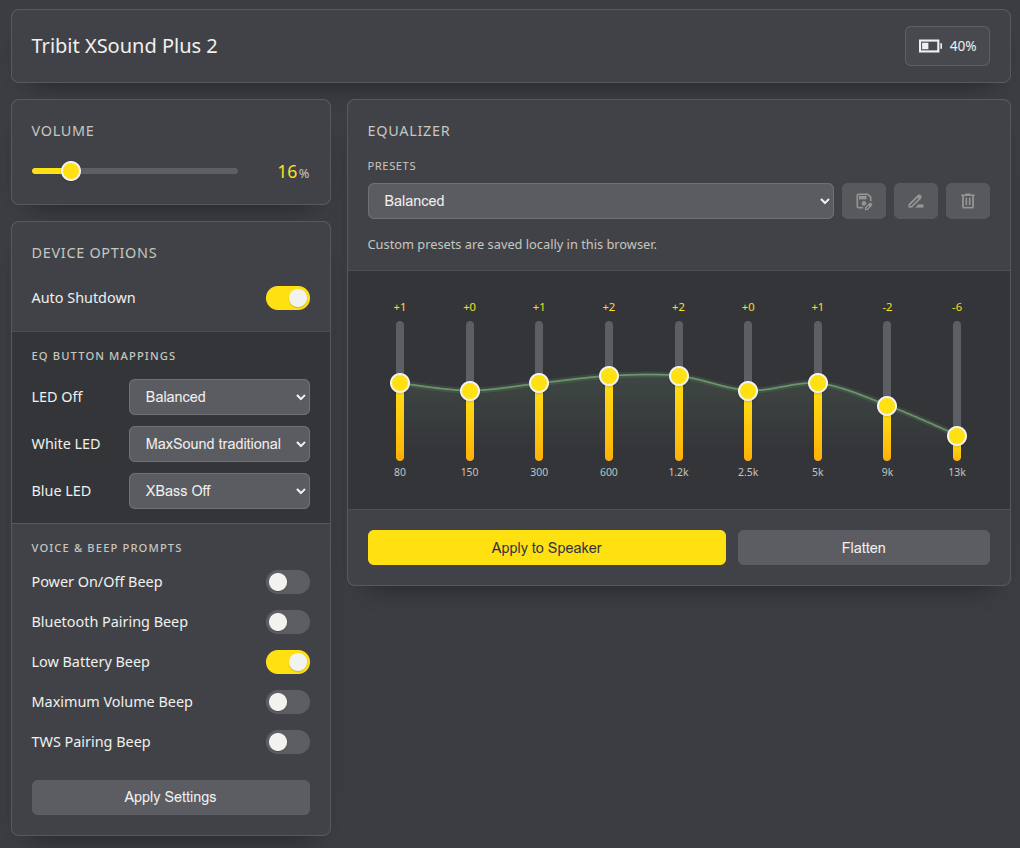
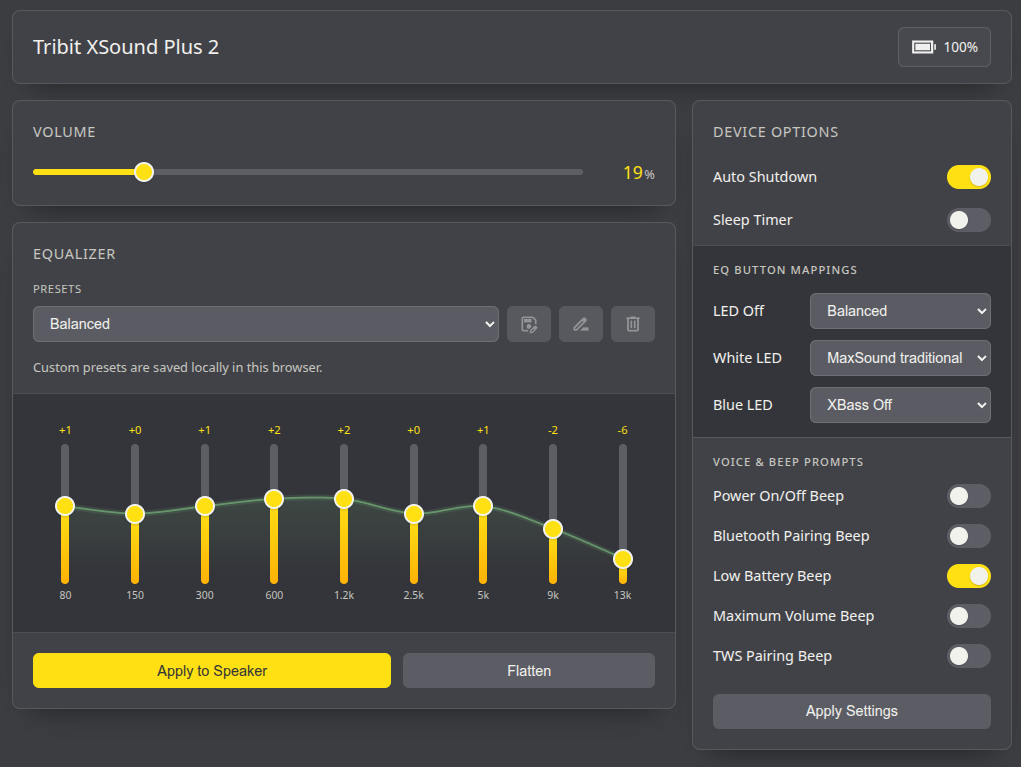
Change main UI layout

diff --git a/standalone.html b/standalone.html
@@ -268,7 +268,7 @@ button:disabled {
 
 .layout {
     display: grid;
-    grid-template-columns: 340px 1fr;
+    grid-template-columns: minmax(0, 1fr) 320px;
     gap: 1rem;
 }
 
@@ -1126,7 +1126,7 @@ button:disabled .btn-icon {
         </div>
 
         <div class="layout">
-            <div class="v-stack sidebar">
+            <div class="v-stack main-content">
                 <div class="card controls" id="controls">
                     <h2 class="panel-title">Volume</h2>
                     <div class="volume-row">
@@ -1135,16 +1135,6 @@ button:disabled .btn-icon {
                     </div>
                 </div>
 
-                <div id="settings-card" class="card controls">
-                    <h2 class="panel-title">Device Options</h2>
-                    <div id="dynamicSettingsContainer" class="v-stack">
-                        <!-- Dynamically generated by UI based on profile features -->
-                    </div>
-                    <button id="applySettingsBtn" class="secondary-btn apply-btn">Apply Settings</button>
-                </div>
-            </div>
-
-            <div class="v-stack main-content">
                 <div id="eq-card" class="card controls eq-card">
                     <h2 class="panel-title">Equalizer</h2>
                     <div class="eq-toolbar">
@@ -1200,7 +1190,16 @@ button:disabled .btn-icon {
                         <button id="flattenEqBtn" class="secondary-btn">Flatten</button>
                     </div>
                 </div>
+            </div>
 
+            <div class="v-stack sidebar">
+                <div id="settings-card" class="card controls">
+                    <h2 class="panel-title">Device Options</h2>
+                    <div id="dynamicSettingsContainer" class="v-stack">
+                        <!-- Dynamically generated by UI based on profile features -->
+                    </div>
+                    <button id="applySettingsBtn" class="secondary-btn apply-btn">Apply Settings</button>
+                </div>
             </div>
         </div>
     </div>

diff --git a/index.html b/index.html
@@ -54,7 +54,7 @@
         </div>
 
         <div class="layout">
-            <div class="v-stack sidebar">
+            <div class="v-stack main-content">
                 <div class="card controls" id="controls">
                     <h2 class="panel-title">Volume</h2>
                     <div class="volume-row">
@@ -63,16 +63,6 @@
                     </div>
                 </div>
 
-                <div id="settings-card" class="card controls">
-                    <h2 class="panel-title">Device Options</h2>
-                    <div id="dynamicSettingsContainer" class="v-stack">
-                        <!-- Dynamically generated by UI based on profile features -->
-                    </div>
-                    <button id="applySettingsBtn" class="secondary-btn apply-btn">Apply Settings</button>
-                </div>
-            </div>
-
-            <div class="v-stack main-content">
                 <div id="eq-card" class="card controls eq-card">
                     <h2 class="panel-title">Equalizer</h2>
                     <div class="eq-toolbar">
@@ -128,7 +118,16 @@
                         <button id="flattenEqBtn" class="secondary-btn">Flatten</button>
                     </div>
                 </div>
+            </div>
 
+            <div class="v-stack sidebar">
+                <div id="settings-card" class="card controls">
+                    <h2 class="panel-title">Device Options</h2>
+                    <div id="dynamicSettingsContainer" class="v-stack">
+                        <!-- Dynamically generated by UI based on profile features -->
+                    </div>
+                    <button id="applySettingsBtn" class="secondary-btn apply-btn">Apply Settings</button>
+                </div>
             </div>
         </div>
     </div>

diff --git a/styles/main.css b/styles/main.css
@@ -257,7 +257,7 @@ button:disabled {
 
 .layout {
     display: grid;
-    grid-template-columns: 340px 1fr;
+    grid-template-columns: minmax(0, 1fr) 320px;
     gap: 1rem;
 }
 

diff --git a/docs/xsound-2-plus-protocol.md b/docs/xsound-2-plus-protocol.md
@@ -24,7 +24,8 @@ Reverse-engineered BLE control protocol for the Tribit XSound Plus 2.
 ```
 
 - `type = 0x01` for XSound Plus 2
-- `len = 10 + payload_length`
+- `len_lo = 10 + payload_length`
+- `len_hi = 0`
 - `cksum = sum(all previous bytes) & 0xFF`
 
 Examples:
@@ -34,7 +35,7 @@ Examples:
 ### Speaker → host (`09 FF`)
 
 ```text
-[09] [FF] [00 00 01] [01] [cmd] [len] [00] [payload...] [cksum]
+[09] [FF] [00 00 01] [01] [cmd] [len_lo] [len_hi] [payload...] [cksum]
 ```
 
 - notifications arrive on characteristic `8888`
